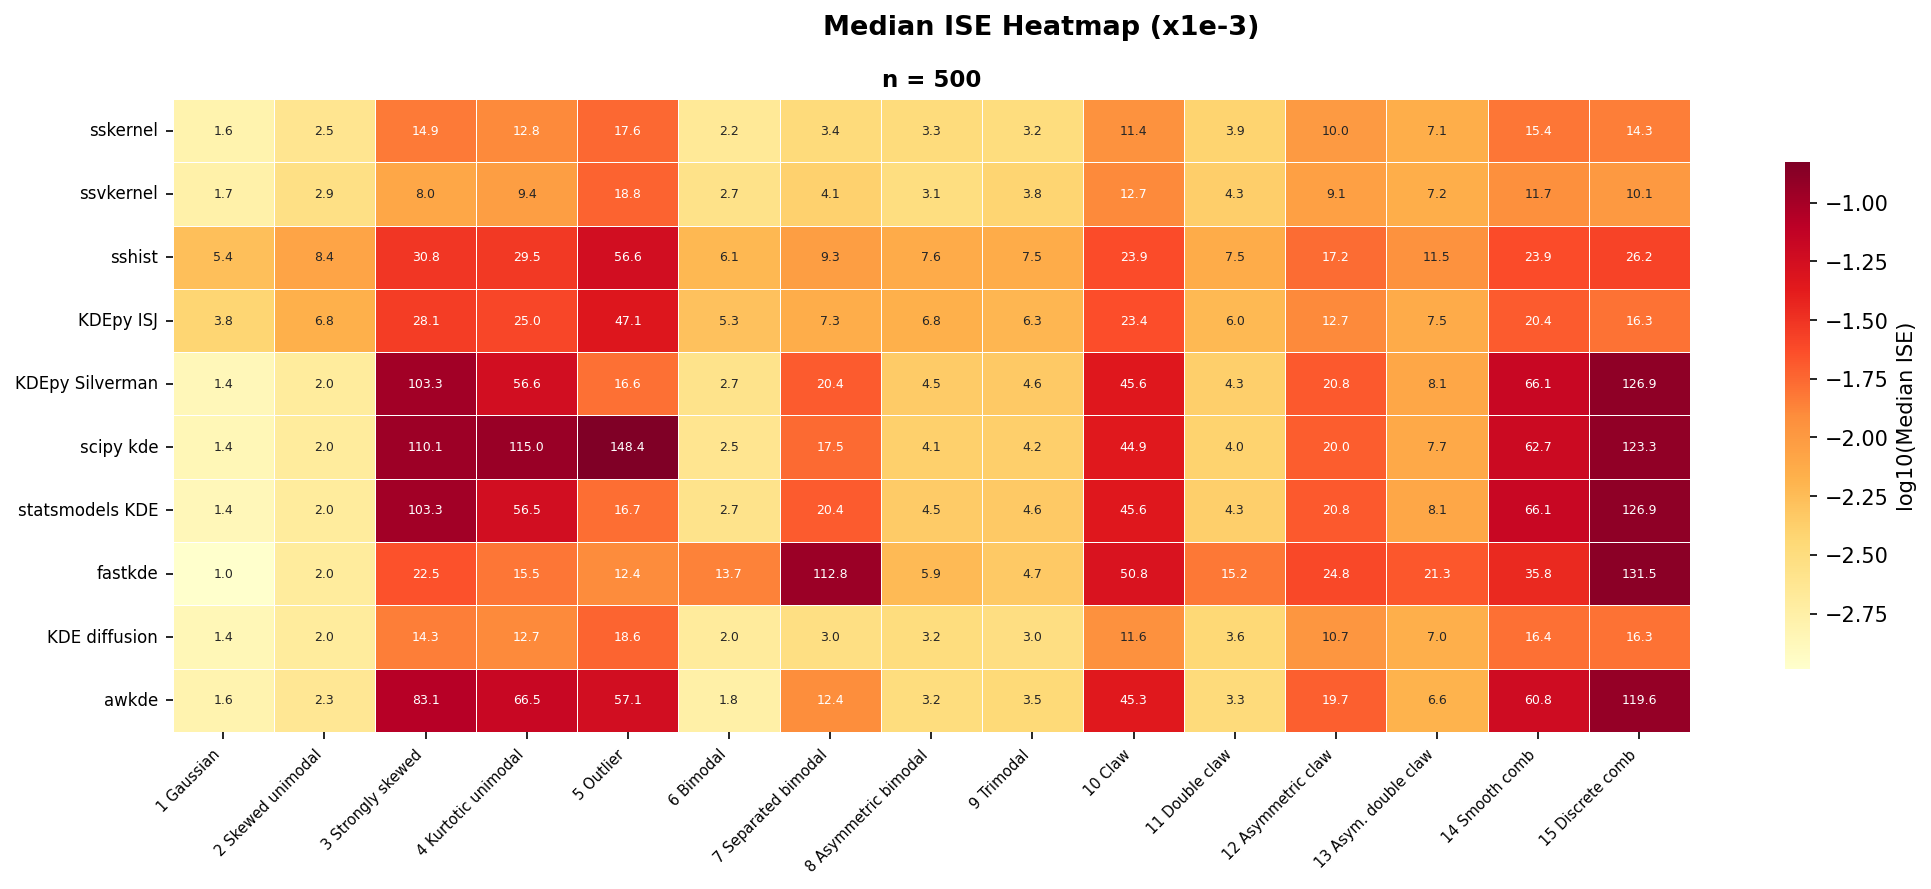
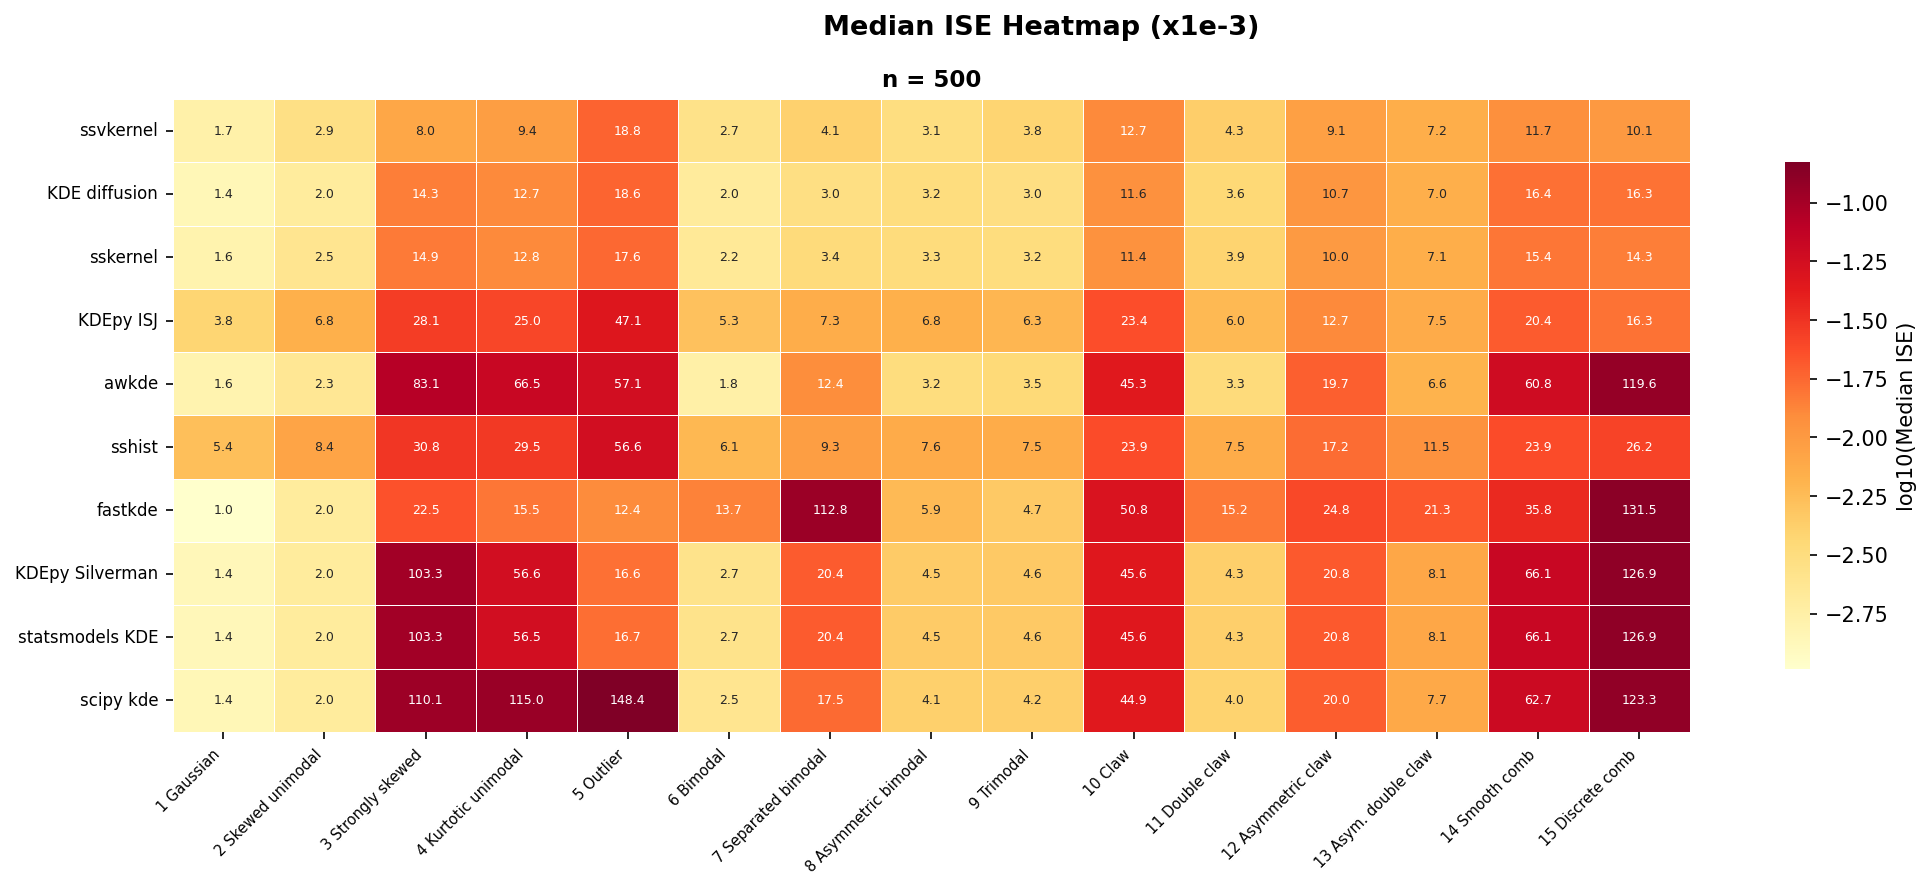
Sort heatmap methods by pooled median ISE (best first)

diff --git a/benchmarks/performance_comparison/run_mise_comparison.py b/benchmarks/performance_comparison/run_mise_comparison.py
@@ -995,6 +995,8 @@ def fig_accuracy_vs_speed(agg, densities, methods, out_dir, n_samples):
 def _heatmap_on_ax(ax, agg, densities, methods, n_samples):
     """Draw MISE heatmap on a single axes using seaborn."""
     active = [name for name, _, avail in methods if avail]
+    # Sort methods by pooled median ISE (best first)
+    active.sort(key=lambda m: agg[m]['_pooled_median_ise'])
     dnames = [d['name'] for d in densities]
     short_names = [dn.replace('#', '') for dn in dnames]
 
